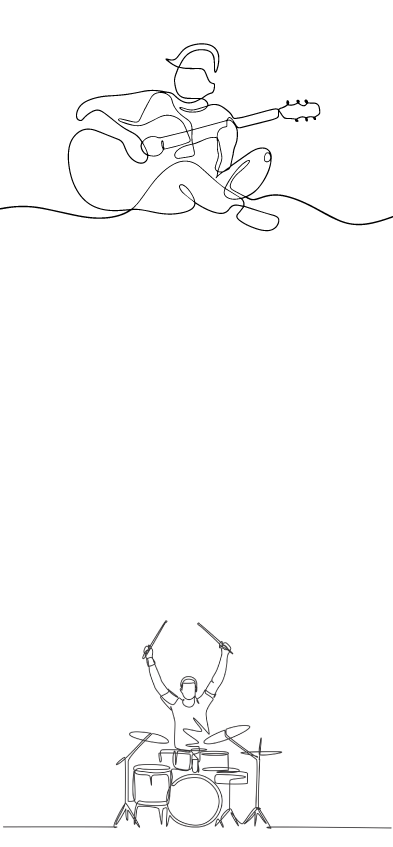
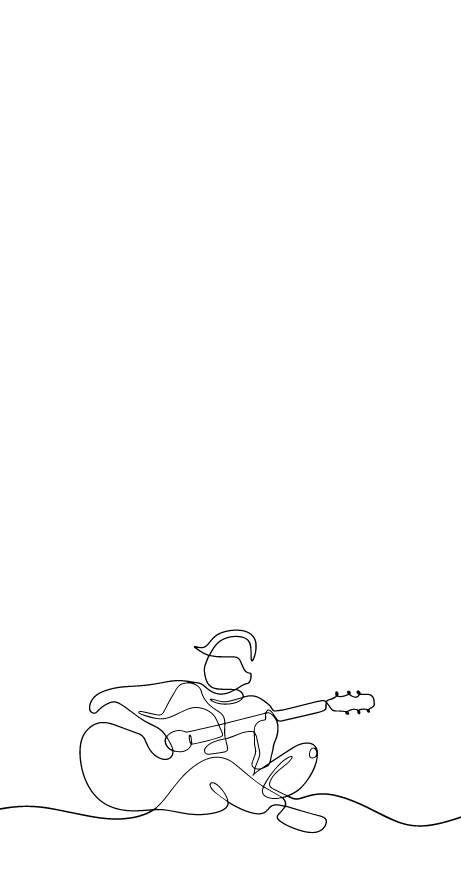
dedefefe

diff --git a/app/assets/stylesheets/components/_content.scss b/app/assets/stylesheets/components/_content.scss
@@ -2,7 +2,7 @@
   margin: auto;
   text-align: center;
   width: 100%;
-  padding-top: 260px;
+  padding-top: 150px;
   color: #11273D;
 }
 
@@ -80,4 +80,11 @@ img{
 
 .show {
   color: #11273D;
+}
+
+#textlog{
+  text-align: center;
+  color: #11273D;
+  font-size: 36px;
+
 }

diff --git a/app/assets/stylesheets/components/_indexfinal.scss b/app/assets/stylesheets/components/_indexfinal.scss
@@ -586,3 +586,15 @@ input#user_birth_date.form-select.mx-1.is-valid.date.optional {
   width: 392px;
   color: white;
 }
+
+.profile__age img{
+  width: 60px;
+  height: 60px;
+  position: absolute;
+  top: -445px;
+  left: 240px;
+}
+
+body {
+  background-color: white;
+}

diff --git a/db/seeds.rb b/db/seeds.rb
@@ -9,50 +9,50 @@ User.destroy_all
 
 puts "Database cleaned"
 
-david = User.create!(nickname: 'Sylvain', instrument: 'guitare', city: 'Nantes', email: 'spe@nge.fr', password: 'azerty', bio: "Je cherche désespérément des musiciens expérimentés en Rock'n'Roll pour buffer toute la nuit, je dispose d'un grand espace de jeu :feu:.", experience: "expert", style: "Rock'n'Roll", birth_date: "1991-4-12")
-file = URI.open("https://images.rtl.fr/\~c/2000v2000/funradio/www/1533519-david-guetta-lors-de-la-64e-ceremonie-des-grammy-awards.jpg")
-david.photo.attach(io: file, filename: "davidguetta.jpg", content_type: "image/jpg")
-david.save
+sylvain = User.create!(nickname: 'Sylvain', instrument: 'Guitare', city: 'Nantes', email: 'spe@nge.fr', password: 'azerty', bio: "Je cherche désespérément des musiciens expérimentés en Rock'n'Roll pour buffer toute la nuit, je dispose d'un grand espace de jeu :feu:.", experience: "Expert", style: "Rock'n'roll", birth_date: "1991-4-12")
+file = URI.open("https://res.cloudinary.com/dy6mp30ja/image/upload/c_pad,b_auto:predominant,fl_preserve_transparency/v1670505092/sylvain_d6fbo4.jpg")
+sylvain.photo.attach(io: file, filename: "sylvain.jpg", content_type: "image/jpg")
+sylvain.save
 
-jimi = User.create!(nickname: 'Jimi-Hendrix', instrument: 'guitare', city: 'Nantes', email: 'jimi.hendrix@gmail.com', password: 'jimi44', bio: "Je cherche un acolyte qui m'apprendra à jouer de la guitare différemment que derrière la tête, avec les dents :dent: ou qu'en la brûlant:feu:en vue d'un prochain album de jazz.", experience: "expert", style: "Blues", birth_date: "1945-3-30")
-file = URI.open("https://cdns-images.dzcdn.net/images/artist/2deec542fc75d5691434c407ee077ff7/500x500.jpg")
-jimi.photo.attach(io: file, filename: "jimihendrix.jpg", content_type: "image/jpg")
-jimi.save
+romain = User.create!(nickname: 'Romain', instrument: 'Guitare', city: 'Nantes', email: 'rom@gmail.com', password: 'azerty', bio: "Je cherche un acolyte qui m'apprendra à jouer de la guitare différemment que derrière la tête, avec les dents :dent: ou qu'en la brûlant:feu:en vue d'un prochain album de jazz.", experience: "expert", style: "Blues", birth_date: "1985-3-30")
+file = URI.open("https://saywhofr.fra1.digitaloceanspaces.com/app/uploads/2020/03/LesBainsFestival-Saywho-9563-768x1152.jpg")
+romain.photo.attach(io: file, filename: "rom.jpg", content_type: "image/jpg")
+romain.save
 
-eric = User.create!(nickname: 'Eric-Clapton', instrument: 'guitare', city: 'Nantes', email: 'eric.clapton@gmail.com', password: 'jimi44', bio: "Hello, alors moi c'est Eric , ou God, Slow hands, ou Ewik pour les intimes, je cherche mon remplaçant et il y a plein de monde ici.", experience: "expert", style: "Blues", birth_date: "190-10-04")
-file = URI.open("https://www.larousse.fr/encyclopedie/data/images/1002428-Eric_Clapton.jpg")
-eric.photo.attach(io: file, filename: "ericclapton.jpg", content_type: "image/jpg")
-eric.save
+pierre = User.create!(nickname: 'Pierre', instrument: 'Basse', city: 'Nantes', email: 'pierre@gmail.com', password: 'azerty', bio: "Yo !! Moi c'est pierre, bassiste depuis 10 ans , j'ai joué avec -m- , clara luciani, minuit, etc. Je cherche des potes avec qui faire des JAMs ", experience: "Expert", style: "Blues", birth_date: "1990-10-04")
+file = URI.open("https://res.cloudinary.com/dcyafbpoh/image/upload/b_rgb:000000,o_64/v1623397379/Capture-Youtube-Pierre-La-belle-aube.jpg")
+pierre.photo.attach(io: file, filename: "pierre.jpg", content_type: "image/jpg")
+pierre.save
 
-kurt = User.create!(nickname: 'Kurt', instrument: 'guitare', city: 'Nantes', email: 'kurt.cobain@gmail.com', password: 'jimi44', bio: "C'est pas la grande grande forme en ce moment donc je cherche à reconstituer un groupe de rock en France moins fun que Nirvana que je trouve beaucoup trop extravagant:crâne:.", experience: "expert", style: "Rock", birth_date: "1995-10-05")
-file = URI.open("https://images.radio-canada.ca/q_auto,w_960/v1/ici-info/16x9/kurt-cobain.jpg")
-kurt.photo.attach(io: file, filename: "kurtcobain.jpg", content_type: "image/jpg")
-kurt.save
+tanguy = User.create!(nickname: 'Tanguy', instrument: 'Batterie', city: 'Nantes', email: 'tanguy@gmail.com', password: 'azerty', bio: "Hello la team, moi c'est Tanguy Clarence, à coté de mon taff de dev, je suis batteur du groupe Minuit, Romain Pinsolle , Chedid, et bien d'autre j'aime rencontrer d'autre Zicos", experience: "Expert", style: "Rock'n'roll", birth_date: "1995-10-05")
+file = URI.open("https://live.staticflickr.com/65535/49122368306_1136a9f6b5_z.jpg")
+tanguy.photo.attach(io: file, filename: "tanguy.jpg", content_type: "image/jpg")
+tanguy.save
 
-bob = User.create!(nickname: 'B-Marley', instrument: 'guitare', city: 'Nantes', email: 'bob.marley@gmail.com', password: 'jimi44', bio: "C'est pas la grande grande forme en ce moment donc je cherche à reconstituer un groupe de rock en France moins fun que Nirvana que je trouve beaucoup trop extravagant:crâne:.", experience: "expert", style:"Reggae", birth_date: "1986-10-06")
-file = URI.open("https://www.telerama.fr/sites/tr_master/files/styles/simplecrop1000/public/grk_ga564607_002_0.jpg?itok=eRTnsP6j")
-bob.photo.attach(io: file, filename: "bobmarley.jpg", content_type: "image/jpg")
-bob.save
+leo = User.create!(nickname: 'Léo', instrument: 'Guitare', city: 'Nantes', email: 'leo@gmail.com', password: 'azerty', bio: "Moi je suis juste la pour faire la promo de mon groupe Météo Mirage. Mais sinon fan de matos (pédales, guitares, etc)", experience: "Expert", style:"Blues", birth_date: "1986-10-06")
+file = URI.open("https://www.artymag.com/wp-content/uploads/2021/02/METEO-MIRAGE-ON-STAIRS-SESSION-%C2%A9Anoussa-Chea-5-scaled.jpg")
+leo.photo.attach(io: file, filename: "leomarley.jpg", content_type: "image/jpg")
+leo.save
 
-amy = User.create!(nickname: 'Amy', instrument: 'voix', city: 'Nantes', email: 'amy.winehouse@gmail.com', password: 'jimmy44', bio: "Amoureuse des grands espaces, je m'installe en France pour me ressourcer et prendre soin de ma santé :salade_verte:, dont je fais une véritable priorité depuis toujours...", experience: "expert", style:"Rythm&Blues", birth_date: "1995-10-07")
+kartus = User.create!(nickname: 'Kartus', instrument: 'Voix', city: 'Nantes', email: 'kartus@gmail.com', password: 'azerty', bio: "Chanteur de météo mirage j'aime aussi jouer du clavier donc si jamais vous voulez jouer avec moi je suis sur Nantes city", experience: "Expert", style:"Blues", birth_date: "1995-10-07")
 file = URI.open("https://media.vogue.fr/photos/5c360db03b3a64c63eb378b5/master/w_1600%2Cc_limit/winehouse_3797.jpeg?lang=eng")
-amy.photo.attach(io: file, filename: "amywinehouse.jpg", content_type: "image/jpg")
-amy.save
+kartus.photo.attach(io: file, filename: "kartuswinehouse.jpg", content_type: "image/jpg")
+kartus.save
 
 puts "User created"
 
-matching1 = Matching.create!(user: david, user_two_id: jimi.id, user_one_status: "accept", user_two_status: "accept")
-matching2 = Matching.create!(user: kurt, user_two_id: david.id, user_one_status: "accept", user_two_status: "accept")
-matching3 = Matching.create!(user: david, user_two_id: kurt.id, user_one_status: "pending", user_two_status: "pending")
-matching4 = Matching.create!(user: david, user_two_id: bob.id, user_one_status: "pending", user_two_status: "pending")
-matching5 = Matching.create!(user: david, user_two_id: amy.id, user_one_status: "pending", user_two_status: "pending")
-matching6 = Matching.create!(user: david, user_two_id: eric.id, user_one_status: "pending", user_two_status: "pending")
-matching7 = Matching.create!(user: eric, user_two_id: kurt.id, user_one_status: "pending", user_two_status: "pending")
-matching8 = Matching.create!(user: eric, user_two_id: bob.id, user_one_status: "pending", user_two_status: "pending")
-matching9 = Matching.create!(user: jimi, user_two_id: eric.id, user_one_status: "pending", user_two_status: "pending")
-matching10 = Matching.create!(user: jimi, user_two_id: amy.id, user_one_status: "pending", user_two_status: "pending")
-matching11 = Matching.create!(user: jimi, user_two_id: kurt.id, user_one_status: "pending", user_two_status: "pending")
-matching12 = Matching.create!(user: jimi, user_two_id: bob.id, user_one_status: "pending", user_two_status: "pending")
+matching1 = Matching.create!(user: sylvain, user_two_id: romain.id, user_one_status: "pending", user_two_status: "accept")
+matching2 = Matching.create!(user: tanguy, user_two_id: sylvain.id, user_one_status: "accept", user_two_status: "accept")
+matching3 = Matching.create!(user: sylvain, user_two_id: tanguy.id, user_one_status: "pending", user_two_status: "pending")
+matching4 = Matching.create!(user: sylvain, user_two_id: leo.id, user_one_status: "pending", user_two_status: "pending")
+matching5 = Matching.create!(user: sylvain, user_two_id: kartus.id, user_one_status: "pending", user_two_status: "pending")
+matching6 = Matching.create!(user: sylvain, user_two_id: pierre.id, user_one_status: "pending", user_two_status: "pending")
+matching7 = Matching.create!(user: pierre, user_two_id: tanguy.id, user_one_status: "pending", user_two_status: "pending")
+matching8 = Matching.create!(user: pierre, user_two_id: leo.id, user_one_status: "pending", user_two_status: "pending")
+matching9 = Matching.create!(user: romain, user_two_id: pierre.id, user_one_status: "pending", user_two_status: "pending")
+matching10 = Matching.create!(user: romain, user_two_id: kartus.id, user_one_status: "pending", user_two_status: "pending")
+matching11 = Matching.create!(user: romain, user_two_id: tanguy.id, user_one_status: "pending", user_two_status: "pending")
+matching12 = Matching.create!(user: romain, user_two_id: leo.id, user_one_status: "pending", user_two_status: "pending")
 
 puts "Matching created"
 

diff --git a/app/models/user.rb b/app/models/user.rb
@@ -8,6 +8,8 @@ class User < ApplicationRecord
   EXPERIENCES = ['Débutant', 'Confirmé', 'Expert']
   STYLES = ["Rock'n'roll", "Blues", "Jazz", "Funk", "Rap", "Electro", "Pop", "Reggea", "Métal"]
 
+  # after_create :create_raw_matchings
+
   has_many :matchings
 
   has_one_attached :photo
@@ -23,4 +25,10 @@ class User < ApplicationRecord
   def age
     (Date.today.strftime('%Y%m%d').to_i - birth_date.strftime('%Y%m%d').to_i) / 10_000
   end
+
+  # def create_raw_matchings
+  #   (User.where.not(id: self.id)).each do |user|
+  #     Matching.create(user: self, user_two_id: user.id, user_one_status: "pending", user_two_status: "pending")
+  #   end
+  # end
 end

diff --git a/app/helpers/icon_helper.rb b/app/helpers/icon_helper.rb
@@ -1,0 +1,15 @@
+module IconHelper
+  INSTRUMENTS = {
+     guitare: "guit.png",
+     piano: "key.png",
+     basse: "bass.png",
+     voix: "mic.png",
+     sax: "sax.png",
+     batterie: "drum.png"
+  }
+
+  def user_instrument(user)
+
+    image_tag(INSTRUMENTS[user.instrument.downcase.to_sym])
+  end
+end
